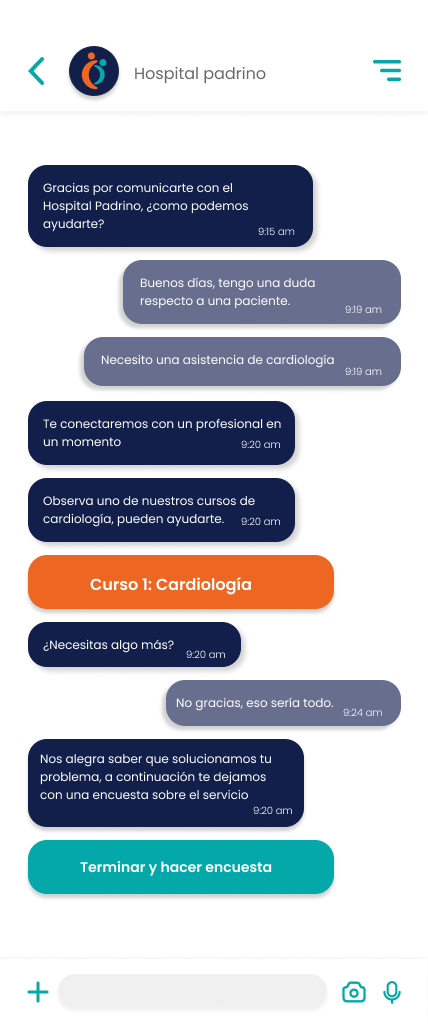
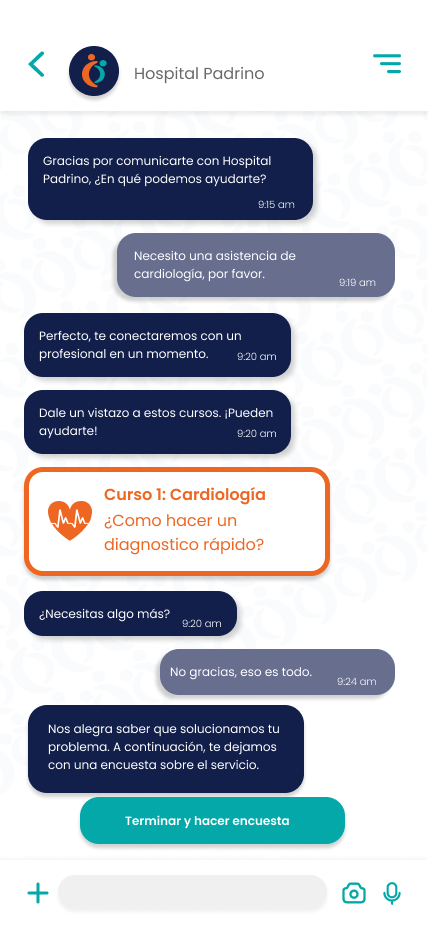
Arreglo pantallas

diff --git a/sketch.js b/sketch.js
@@ -10,7 +10,9 @@ function setup() {
 function draw() {
   background(220);
   image(pantallas[pantallaActual], 0, 0);
-  console.log("X: " + parseInt(mouseX) + " Y: " + parseInt(mouseY));
+  //console.log("X: " + parseInt(mouseX) + " Y: " + parseInt(mouseY));
+  console.log(pantallaActual);
+  
 }
 
 function preload() {
@@ -18,8 +20,8 @@ function preload() {
   pantallas[1] = loadImage("assets/Pantalla1.png");
   pantallas[2] = loadImage("assets/Pantalla2.png");
   pantallas[3] = loadImage("assets/Pantalla3.png");
-  pantallas[4] = loadImage("assets/Pantalla4.png");
-  pantallas[5] = loadImage("assets/Pantalla5.png");
+  pantallas[4] = loadImage("assets/pantalla4.png");
+  pantallas[5] = loadImage("assets/pantalla5.png");
   pantallas[6] = loadImage("assets/Pantalla6.png");
   pantallas[7] = loadImage("assets/Pantalla7.png");
   pantallas[8] = loadImage("assets/Pantalla8.png");
@@ -27,6 +29,7 @@ function preload() {
   pantallas[10] = loadImage("assets/Pantalla10.png")
   pantallas[11] = loadImage("assets/Pantalla11.png");
   pantallas[12] = loadImage("assets/Pantalla12.png");
+  pantallas[13] = loadImage("assets/Pantalla13.png");
 }
 
 function mousePressed() {
@@ -43,16 +46,23 @@ function mousePressed() {
   }
 
   // Botón de urgencia BAJA
-  if (mouseX > 126 && mouseX < 126 + 170 && mouseY > 748 && mouseY < 748 + 40 &&
+  if (mouseX > 54 && mouseX < 54 + 315 && mouseY > 428 && mouseY < 428 + 40 &&
     pantallaActual === 2) {
+    pantallaActual = 13;
+  }
+
+  // Botón de elegir especialidad
+  if (mouseX > 56 && mouseX < 56 + 314 && mouseY > 492 && mouseY < 492 + 37 &&
+    pantallaActual === 13) {
     pantallaActual = 3;
   }
 
   // Botón de comenzar asistencia
-  if (mouseX > 128 && mouseX < 128 + 161 && mouseY > 666 && mouseY < 666 + 42 &&
+  if (mouseX > 127 && mouseX < 127 + 172 && mouseY > 747 && mouseY < 747 + 37 &&
     pantallaActual === 3) {
     pantallaActual = 4;
   }
+
   // Presionar en el mic de pantalla 4
   if (mouseX > 379 && mouseX < 379 + 16 && mouseY > 881 && mouseY < 881 + 17 &&
     pantallaActual === 4) {
@@ -60,7 +70,7 @@ function mousePressed() {
   }
 
   // Botón hacer encuesta
-  if (mouseX > 27 && mouseX < 27 + 305 && mouseY > 839 && mouseY < 839 + 51 &&
+  if (mouseX > 80 && mouseX < 80 + 265 && mouseY > 797 && mouseY < 797 + 47 &&
     pantallaActual === 5) {
     pantallaActual = 12;
   }
@@ -78,29 +88,35 @@ function mousePressed() {
   }
 
 
-  // Boton de emergencia alta
-  if (mouseX > 54 && mouseX < 54 + 320 && mouseY > 478 && mouseY < 478 + 40 &&
+  // Boton de emergencia ALTA
+  if (mouseX > 54 && mouseX < 54 + 315 && mouseY > 478 && mouseY < 478 + 40 &&
     pantallaActual === 2) {
-    pantallaActual = 6;
+    pantallaActual = 13;
+  }
+
+  // Boton de elegir especialidad
+  if (mouseX > 56 && mouseX < 56 + 314 && mouseY > 492 && mouseY < 492 + 37 &&
+    pantallaActual === 13) {
+    pantallaActual = 3;
   }
 
   // Botón comenzar asistencia
-  if (mouseX > 128 && mouseX < 128 + 175 && mouseY > 666 && mouseY < 666 + 40 &&
-    pantallaActual === 6) {
+  if (mouseX > 127 && mouseX < 127 + 174 && mouseY > 747 && mouseY < 747 + 40 &&
+    pantallaActual === 3) {
     pantallaActual = 7;
   }
 
    // Botón comenzar asistencia
-   if (mouseX > 54 && mouseX < 54 + 320 && mouseY > 450 && mouseY < 450 + 40 &&
+   if (mouseX > 54 && mouseX < 54 + 315 && mouseY > 450 && mouseY < 450 + 40 &&
     pantallaActual === 7) {
-    pantallaActual = 8;
+    pantallaActual = 13;
   }
-  //carga de llamada
-  if (pantallaActual === 8) {
+  //carga de llamada (hay que cambiarlo)
+  if (pantallaActual === 7) {
     setTimeout(() => {
-      pantallaActual= 9;
+      pantallaActual = 9
     }, 3000);
-  }
+}
 
   // Botón terminar llamada
   if (mouseX > 166 && mouseX < 166 + 92 && mouseY > 754 && mouseY < 754 + 94 &&
@@ -119,9 +135,4 @@ function mousePressed() {
     pantallaActual === 12) {
     pantallaActual = 1;
   }
-
-
-
-
-
 }
